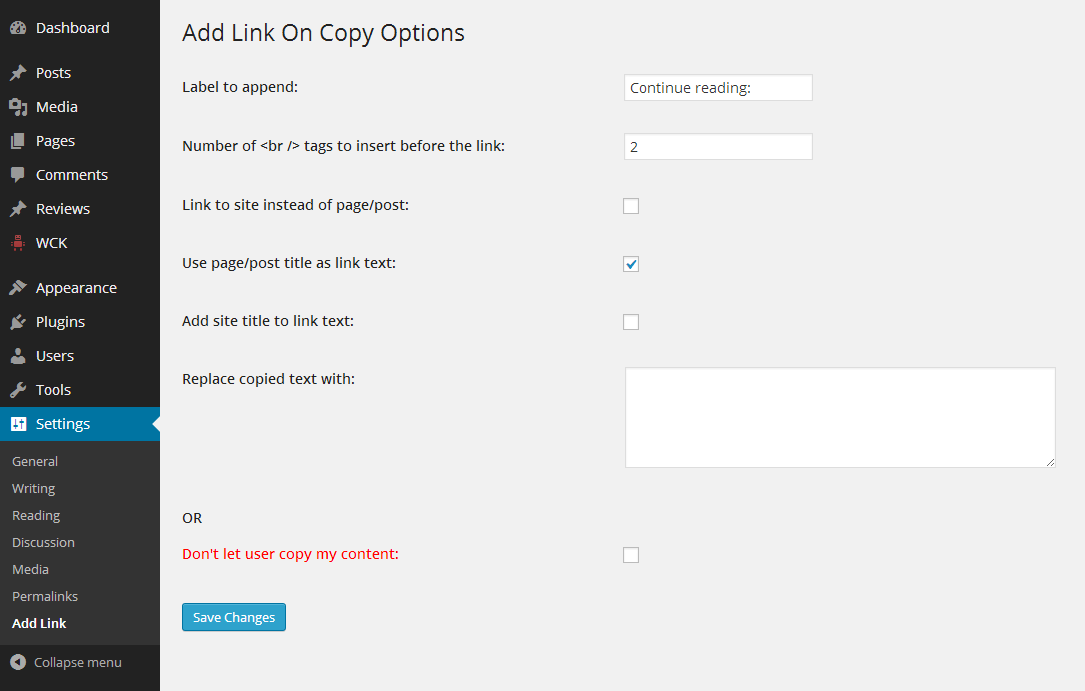
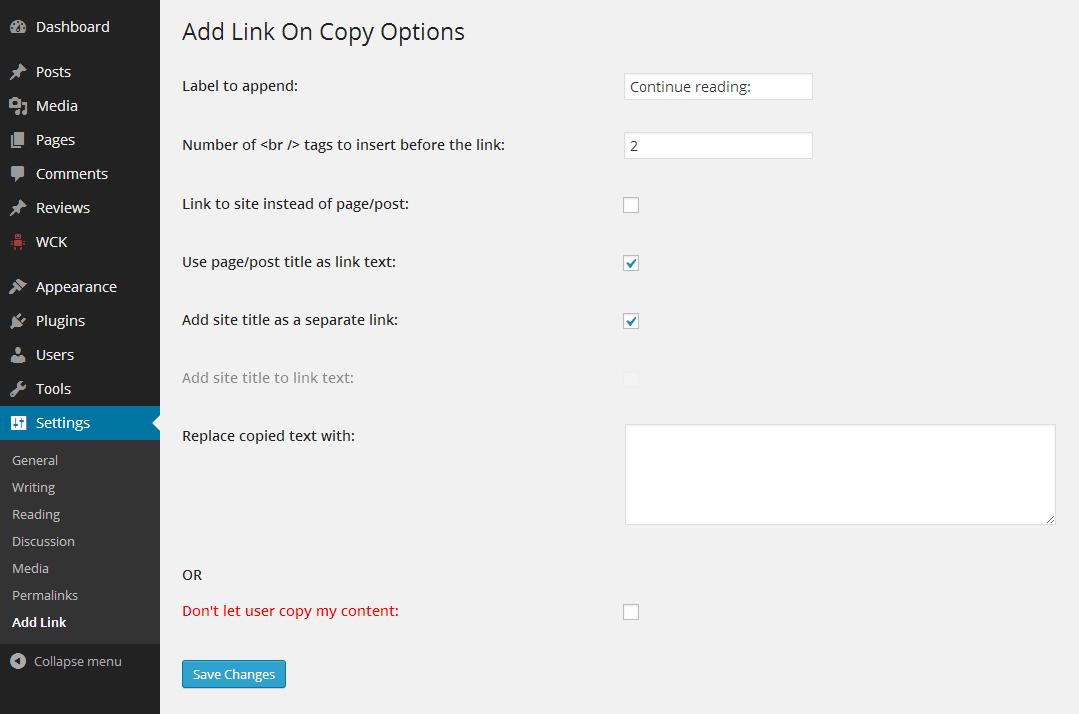
version 1.1 - Added option to let site title to appear as a separate link
git-svn-id: https://plugins.svn.wordpress.org/add-link-to-copied-text/trunk@921400 b8457f37-d9ea-0310-8a92-e5e31aec5664

diff --git a/assets/add_link.js b/assets/add_link.js
@@ -1,4 +1,4 @@
-function addLink(){var body_element=document.getElementsByTagName("body")[0];var breaks="";var site_name=Array();params=add_link;for(i=0;i<params.breaks;i++)breaks=breaks+"<br />";if(params.usetitle)site_name.push(params.pagetitle);if(params.addsitename)site_name.push(params.sitename);if(params.addlinktosite)site_url=params.siteurl;else site_url=document.URL;if(site_name.length==0)site_name.push(site_url);var pagelink=breaks+" "+params.readmore+" "+"<a href='"+site_url+"'>"+site_name.join(" | ")+
-"</a>";var selection="";if(window.getSelection)selection=window.getSelection();else selection=document.selection;selection1=selection;if(params.cleartext||params.replaced_text.length){selection1="";if(window.getSelection)selection.removeAllRanges();else window.clipboardData.clearData();if(params.cleartext)return}if(params.replaced_text.length)selection1=params.replaced_text;var copytext=selection1+pagelink;var appendeddiv=document.createElement("div");appendeddiv.style.position="absolute";appendeddiv.style.left=
-"-99999px";body_element.appendChild(appendeddiv);appendeddiv.innerHTML=copytext;d=function(){var r=document.body.createTextRange();r.moveToElementText(appendeddiv);r.select()};if(!params.cleartext&&params.replaced_text.length==0)if(window.getSelection)selection.selectAllChildren(appendeddiv);else d();else if(window.getSelection)selection.selectAllChildren(appendeddiv);else d();window.setTimeout(function(){body_element.removeChild(appendeddiv)},0)}
-if(document.addEventListener)document.addEventListener("copy",addLink,true);else if(document.attachEvent)document.documentElement.attachEvent("oncopy",addLink);else document.oncopy=addLink;
+function addLink(){var body_element=document.getElementsByTagName("body")[0];var breaks="";var site_name=Array();params=add_link;for(i=0;i<params.breaks;i++)breaks=breaks+"<br />";if(params.usetitle)site_name.push(params.pagetitle);if(params.addsitename)site_name.push(params.sitename);if(params.addlinktosite)site_url=params.siteurl;else site_url=document.URL;if(site_name.length==0)site_name.push(site_url);var pagelink=breaks+" "+params.readmore+" "+"<a href='"+site_url+"'>";if(!params.addlinktosite&&
+params.usesitenameaslink){site_name.push(params.sitename);pagelink+=site_name[0]+"</a> | <a href='"+params.siteurl+"'>"+site_name[1]+"</a>"}else pagelink+=site_name.join(" | ")+"</a>";var selection="";if(window.getSelection)selection=window.getSelection();else selection=document.selection;selection1=selection;if(params.cleartext||params.replaced_text.length){selection1="";if(window.getSelection)selection.removeAllRanges();else window.clipboardData.clearData();if(params.cleartext)return}if(params.replaced_text.length)selection1=
+params.replaced_text;var copytext=selection1+pagelink;var appendeddiv=document.createElement("div");appendeddiv.style.position="absolute";appendeddiv.style.left="-99999px";body_element.appendChild(appendeddiv);appendeddiv.innerHTML=copytext;d=function(){var r=document.body.createTextRange();r.moveToElementText(appendeddiv);r.select()};if(!params.cleartext&&params.replaced_text.length==0)if(window.getSelection)selection.selectAllChildren(appendeddiv);else d();else if(window.getSelection)selection.selectAllChildren(appendeddiv);
+else d();window.setTimeout(function(){body_element.removeChild(appendeddiv)},0)}if(document.addEventListener)document.addEventListener("copy",addLink,true);else if(document.attachEvent)document.documentElement.attachEvent("oncopy",addLink);else document.oncopy=addLink;

diff --git a/settings.php b/settings.php
@@ -2,8 +2,8 @@
 /*
 Plugin Name: Add Link to Copied Text
 Plugin URI: http://dev.fellowtuts.com/add-link-to-copied-text-plugin/
-Description: This plugin automatically add a link to your website/page beneath copied text from your website to the page wherever visitors paste. This powerful plugin can also protect visitors to copy your content and works on almost all browsers
-Version: 1.0
+Description: This plugin automatically adds a link to your website/page beneath copied text from your website to the page wherever visitors paste. This powerful plugin can also protect visitors to copy your content and works on almost all browsers
+Version: 1.1
 Author: Amit Sonkhiya, Kamal Agrawal 
 Author URI: http://dev.fellowtuts.com
 License: GPLv2 or later
@@ -20,6 +20,7 @@ class ftAddlink {
 		
 		
 		$this->options = get_option($this->option_name);		
+		
 		
 		add_action( 'admin_menu', array( &$this, 'ftAddlink_menu' ) );
 		add_action( 'admin_init', array( &$this, 'ftAddlink_admininit' ) );
@@ -39,7 +40,8 @@ class ftAddlink {
 		if( !isset($options['usetitle']) ) $options['usetitle'] = false;
 		if( !isset($options['addlinktosite']) ) $options['addlinktosite'] = false;		
 		if( !isset($options['cleartext']) ) $options['cleartext'] =  false;
-		if( !isset($options['addsitename']) ) $options['addsitename'] = true;		
+		if( !isset($options['addsitename']) ) $options['addsitename'] = true;
+		if( !isset($options['usesitenameaslink']) ) $options['usesitenameaslink'] = true;				
 		if( !isset($options['replaced_text']) ) $options['replaced_text'] = '';
 		
 		
@@ -56,15 +58,16 @@ class ftAddlink {
 		
 		$params = 	array(
 			
-			 'readmore'	    	=> $options['readmore'],
-			 'breaks'		    => $options['breaks'],
-			 'addlinktosite'	=> $options["addlinktosite"] ,
-			 'usetitle'			=> $options['usetitle'],			
-			 'cleartext'		=> $options['cleartext'],
-			 'addsitename'		=> $options['addsitename'],			
-			 'replaced_text'	=> $options['replaced_text'],
-			 'sitename'			=> get_bloginfo('name'),
-			 'siteurl'			=> get_bloginfo('url')			 
+			  'readmore'			=> $options['readmore'],
+			 'breaks'		        => $options['breaks'],
+			  'addlinktosite'	    =>  $options["addlinktosite"] ,
+			 'usetitle'			    => $options['usetitle'],			
+			 'cleartext'		    => $options['cleartext'],
+			 'addsitename'		    => $options['addsitename'],			
+			 'replaced_text'	    => $options['replaced_text'],
+			 'sitename'			    => get_bloginfo('name'),
+			 'usesitenameaslink'    => $options['usesitenameaslink'],			
+			 'siteurl'			    => get_bloginfo('url')			 
 		);
 		
 		if ($options['usetitle'] === true) {
@@ -84,6 +87,7 @@ class ftAddlink {
 	// adding menu item in admin menu
 	function ftAddlink_menu(){
 		
+		//add_options_page('Todo Options', 'Todo Options', 'manage_options', 'todo_list_options', array($this, 'options_do_page'));
 		add_options_page('Add link Settings', 'Add Link', 'manage_options', 'ftAddlink_options',array($this, 'ftAddlink_display_settings'));
 		
 	}
@@ -91,9 +95,11 @@ class ftAddlink {
 	//register_setting( $option_group, $option_name, $sanitize_callback );
 	function ftAddlink_admininit()
 	{
-		register_setting($this->option_name, $this->option_name, array($this, 'options_validate'));		
-	}
+		register_setting($this->option_name, $this->option_name, array($this, 'options_validate'));
 		
+	}
+	
+	
 	public function options_validate($input) {
 
     $valid = array();
@@ -104,7 +110,10 @@ class ftAddlink {
 	$valid['addlinktosite'] = isset($input['addlinktosite']) ? (bool) $input['addlinktosite'] : false;
 	$valid['usetitle'] = isset($input['usetitle']) ? (bool) $input['usetitle'] : false;
 	$valid['cleartext'] = isset($input['cleartext']) ? (bool) $input['cleartext'] : false;
-	$valid['addsitename'] = isset($input['addsitename']) ? (bool) $input['addsitename'] : false;
+	
+	$valid['usesitenameaslink'] = isset($input['usesitenameaslink']) && !$valid['addlinktosite'] ? (bool) $input['usesitenameaslink'] : false;	
+	$valid['addsitename'] = isset($input['addsitename']) && !$valid['usesitenameaslink'] ? (bool) $input['addsitename'] : false;
+		
 	$valid['replaced_text'] = $input['replaced_text'];
 	
 
@@ -118,7 +127,8 @@ class ftAddlink {
 
         // Set it to the default value
         $valid['breaks'] = 0;
-    }   
+    }
+   
 
     return $valid;
 }
@@ -126,7 +136,6 @@ class ftAddlink {
 	function ftAddlink_display_settings(){
 		
 		$options = get_option($this->option_name);
-		//default values
 		$readmore = isset($options['readmore'])? $options['readmore'] : 'Continue reading at';
 		$breaks = isset($options['breaks'])  ? $options['breaks'] : 2;
    ?>
@@ -149,16 +158,20 @@ class ftAddlink {
       </tr>
       <tr valign="top">
         <th scope="row">Link to site instead of page/post:</th>
-        <td><input type="checkbox" name="<?php echo $this->option_name?>[addlinktosite]" <?php checked($options['addlinktosite']); ?>  /></td>
+        <td><input type="checkbox" onchange="setSitetileaslink(this)" name="<?php echo $this->option_name?>[addlinktosite]" <?php checked($options['addlinktosite']); ?>  /></td>
       </tr>
        <tr valign="top">
         <th scope="row">Use page/post title as link text:</th>
         <td><input type="checkbox" name="<?php echo $this->option_name?>[usetitle]" <?php checked($options['usetitle']); ?>  /></td>
       </tr>
+      <tr valign="top" <?php if( $options['addlinktosite']) echo 'style="opacity:0.5;"'; ?>>
+        <th scope="row">Add site title as a separate link:</th>
+        <td><input type="checkbox" onchange="setCheck(this)" <?php disabled( $options['addlinktosite']) ?> name="<?php echo $this->option_name?>[usesitenameaslink]" <?php checked($options['usesitenameaslink']); ?>  /></td>
+      </tr>
       
-       <tr valign="top">
+       <tr valign="top" <?php if( $options['usesitenameaslink']) echo 'style="opacity:0.5;"'; ?>>
         <th scope="row">Add site title to link text:</th>
-        <td><input type="checkbox" name="<?php echo $this->option_name?>[addsitename]" <?php checked($options['addsitename']); ?>  /></td>
+        <td><input type="checkbox" name="<?php echo $this->option_name?>[addsitename]" <?php disabled( $options['usesitenameaslink']) ?> <?php checked($options['addsitename']); ?>  /></td>
       </tr>
       
       <tr valign="top">
@@ -168,7 +181,7 @@ class ftAddlink {
       </tr>
       
       <tr valign="top">
-        <th scope="row">OR<br /><br /><span style="color: Red;">Don't let user copy my content:</span></th>
+        <th scope="row">OR<br /><br /><span style="color: Red;">Don't let user copy my content:</span><!--Enable clear copied text(If yes, nothing will be copied)--></th>
         <td><br /><br /><input type="checkbox" name="<?php echo $this->option_name?>[cleartext]" <?php checked($options['cleartext']); ?>  /></td>
       </tr>      
     </table>
@@ -176,6 +189,29 @@ class ftAddlink {
       <input type="submit" class="button-primary" value="<?php _e('Save Changes') ?>" />
     </p>
   </form>
+  <script>
+  function setSitetileaslink(obj)
+  {
+	  if(obj.checked)
+		 {  
+		 	jQuery(jQuery(obj).parents('tr')[0]).next().next().css({opacity:'0.5'}).find('input[type=checkbox]').attr({'checked':false,'disabled':true})
+			jQuery(jQuery(obj).parents('tr')[0]).next().next().next().removeAttr('style').find('input[type=checkbox]').removeAttr('disabled')
+		 }
+		else
+		 { jQuery(jQuery(obj).parents('tr')[0]).next().next().removeAttr('style').find('input[type=checkbox]').removeAttr('disabled');
+		 }
+   }
+  	function setCheck(obj)
+	{
+		if(obj.checked)
+		  {
+		    jQuery(jQuery(obj).parents('tr')[0]).next().css({opacity:'0.5'}).find('input[type=checkbox]').attr({'checked':false,'disabled':true})
+		  }
+		else
+		  jQuery(jQuery(obj).parents('tr')[0]).next().removeAttr('style').find('input[type=checkbox]').removeAttr('disabled');
+		  
+	}
+  </script>
 </div>
 <?php
 		
@@ -185,5 +221,3 @@ class ftAddlink {
 $ftAddlink = new ftAddlink();
 
 }// top most if condition ends here
-
-
